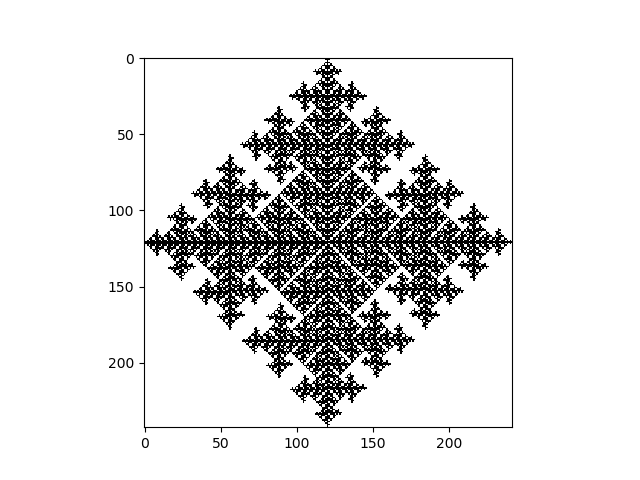
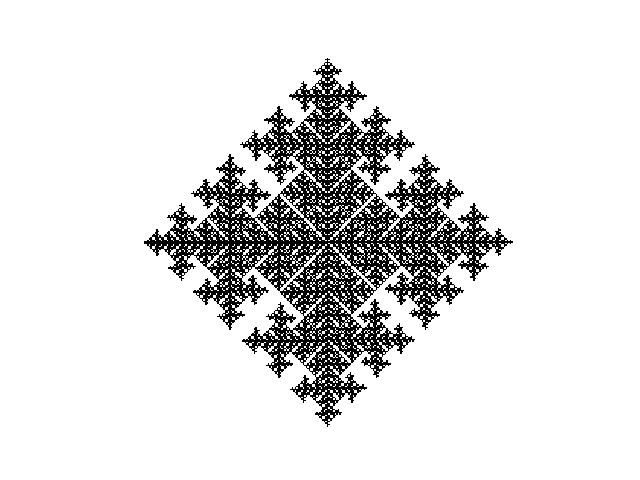
removed axed lines from being shown

diff --git a/turmite.py b/turmite.py
@@ -224,8 +224,9 @@ def main(name = "a", filepath = "turmites.json", PRINT=True, PLOT=True):
         print("steps: ", i, "score: ", np.sum(tape))
         if PLOT:
             plt.imshow(tape, cmap='binary')
+            plt.axis('off')
             plt.show()
 
 
 if __name__ == "__main__":
-    main("box", PRINT=False, PLOT=True)
+    main("snowflake", PRINT=False, PLOT=True)
